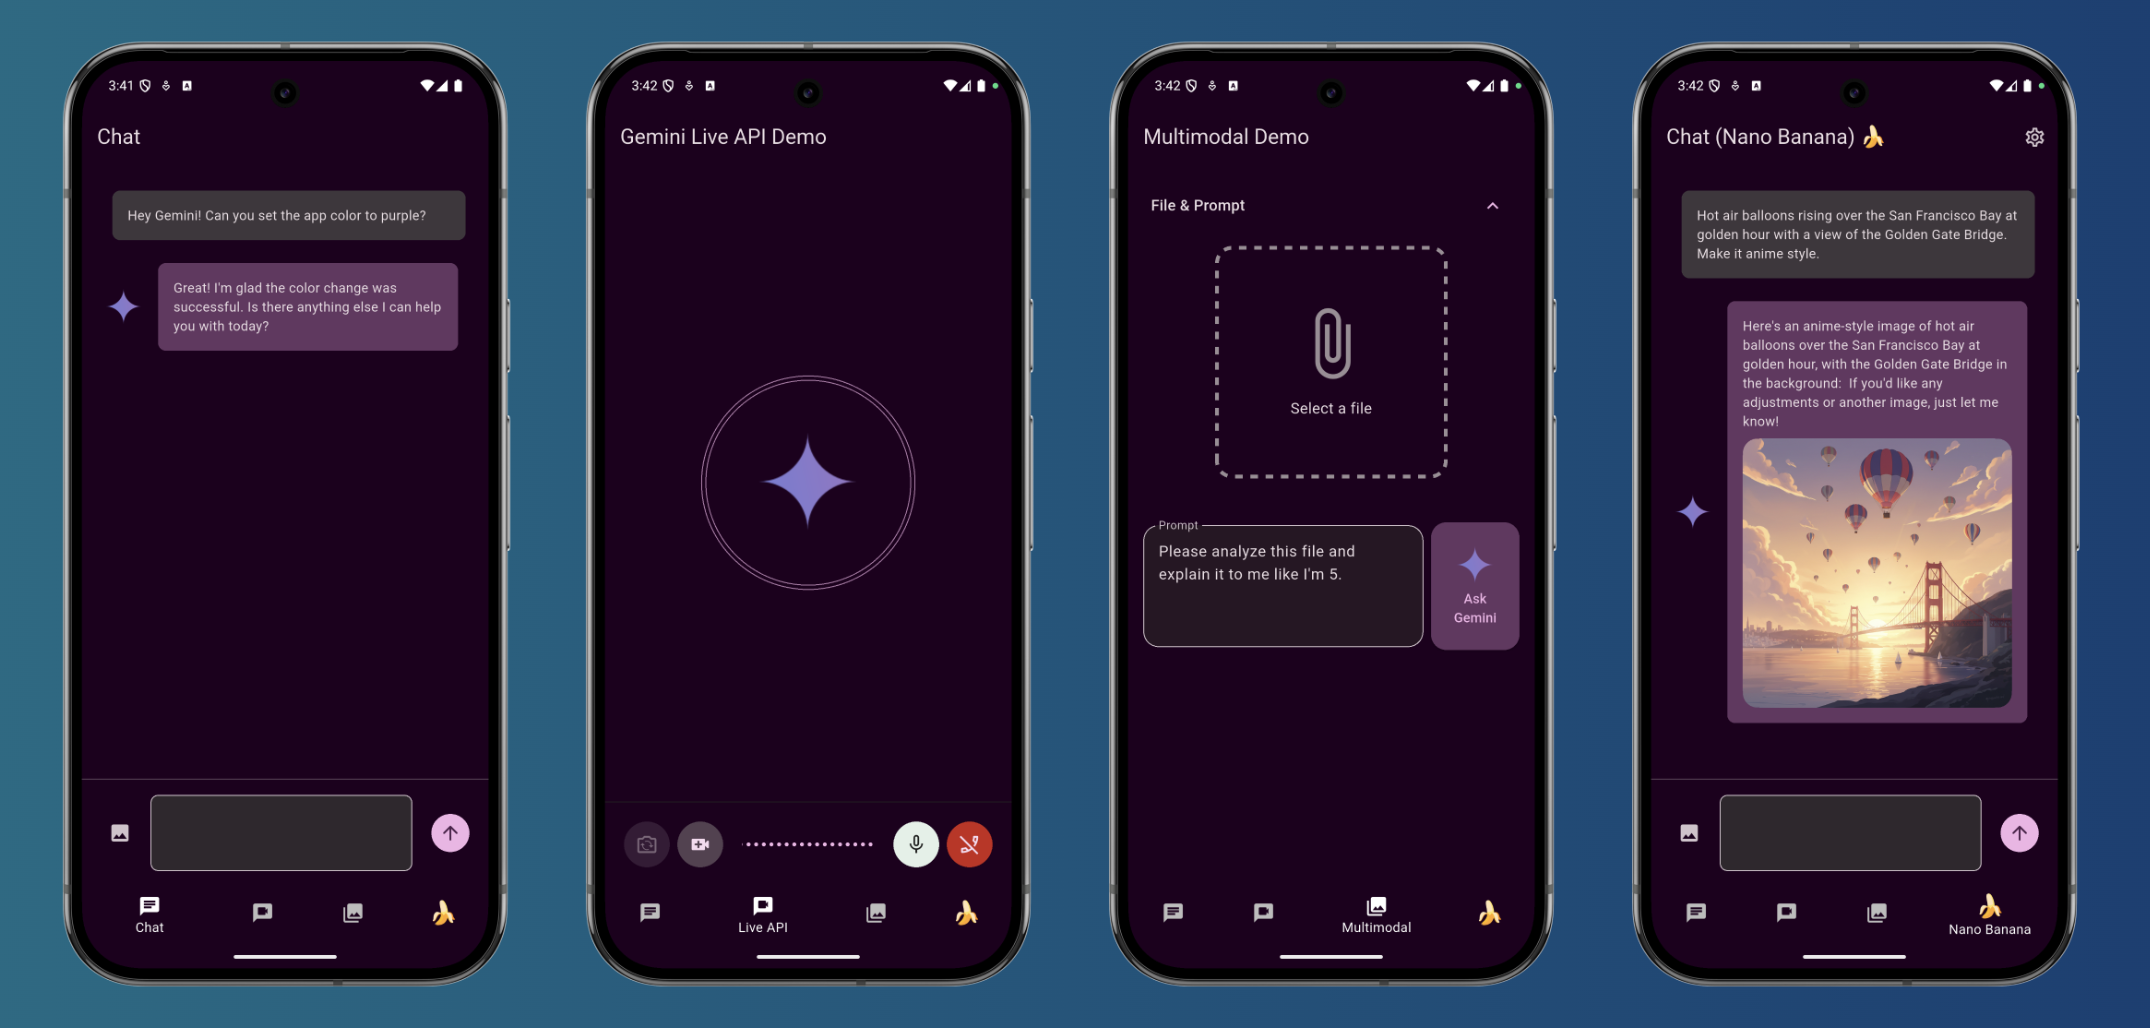
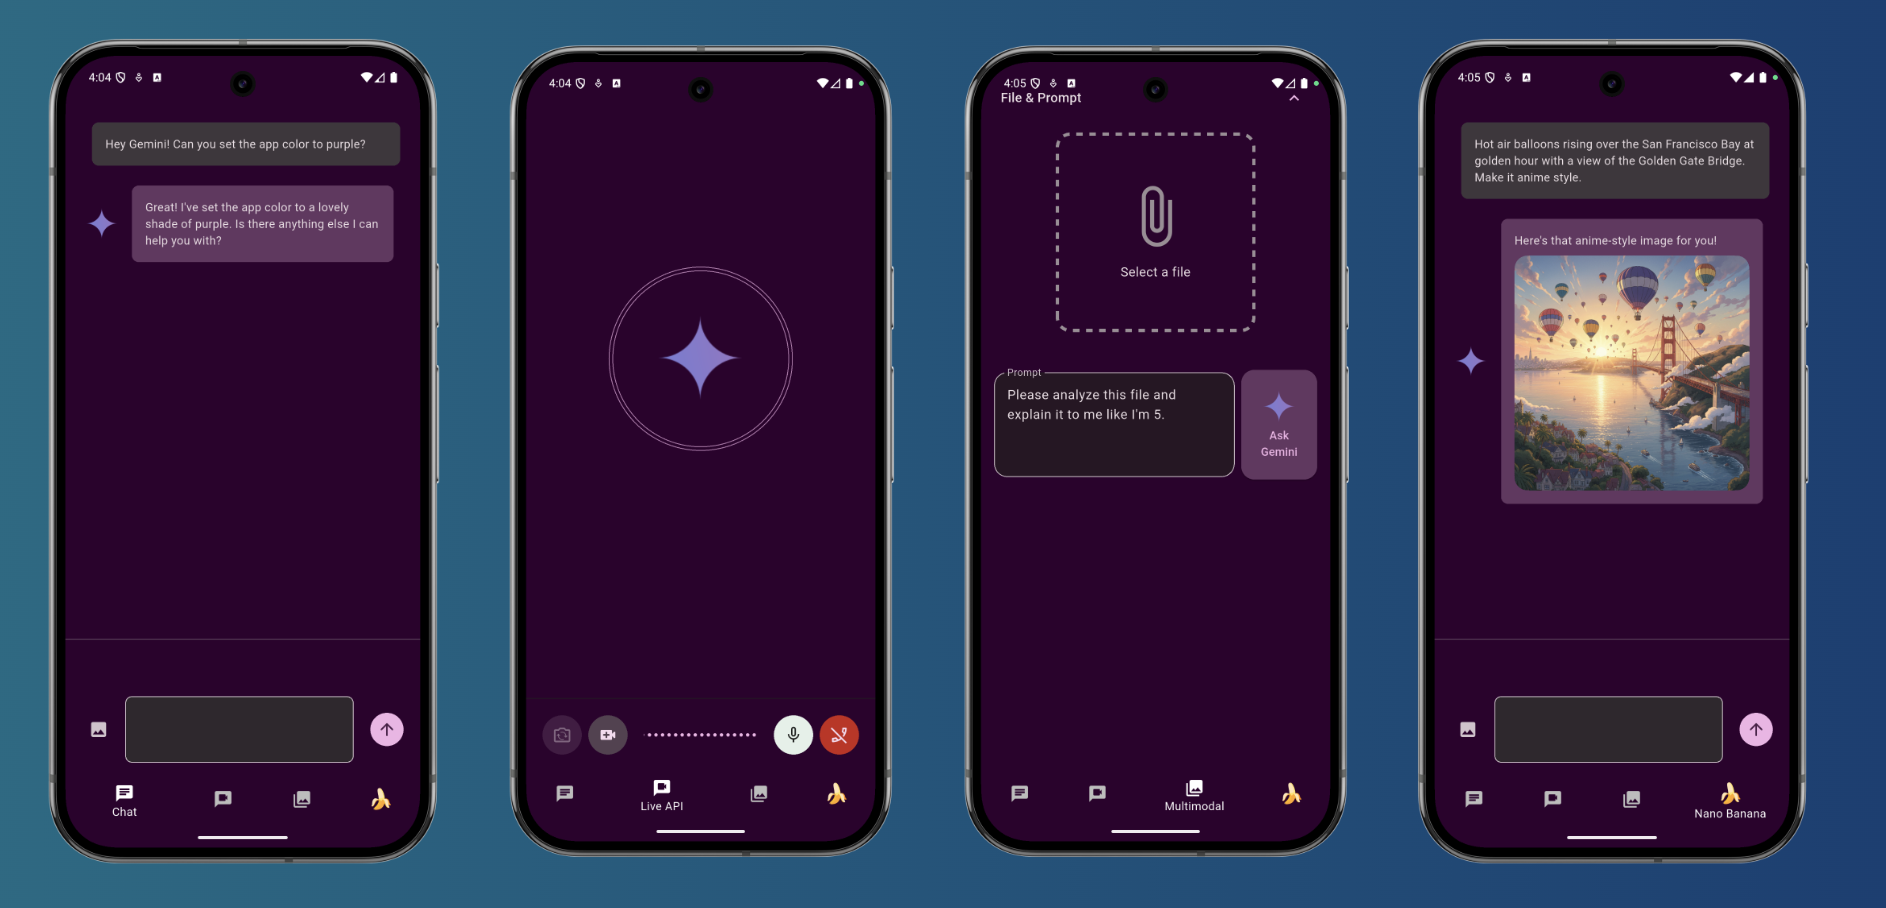
removed the headers from each demo app

diff --git a/firebase_ai_logic_showcase/lib/demos/chat_nano/chat_nano_demo.dart b/firebase_ai_logic_showcase/lib/demos/chat_nano/chat_nano_demo.dart
@@ -182,16 +182,6 @@ class ChatDemoNanoState extends ConsumerState<ChatDemoNano> {
   @override
   Widget build(BuildContext context) {
     return Scaffold(
-      appBar: AppBar(
-        backgroundColor: Colors.transparent,
-        title: const Text('Chat (Nano Banana) 🍌'),
-        actions: [
-          IconButton(
-            onPressed: showModelPicker,
-            icon: const Icon(Icons.settings_outlined),
-          ),
-        ],
-      ),
       body: Column(
         children: [
           Expanded(

diff --git a/firebase_ai_logic_showcase/lib/demos/multimodal/multimodal_demo.dart b/firebase_ai_logic_showcase/lib/demos/multimodal/multimodal_demo.dart
@@ -83,7 +83,6 @@ class _MultimodalDemoState extends State<MultimodalDemo> {
   @override
   Widget build(BuildContext context) {
     return Scaffold(
-      appBar: AppBar(title: Text('Multimodal Demo')),
       body: SingleChildScrollView(
         keyboardDismissBehavior: ScrollViewKeyboardDismissBehavior.onDrag,
         padding: EdgeInsets.only(

diff --git a/firebase_ai_logic_showcase/lib/demos/live_api/live_api_demo.dart b/firebase_ai_logic_showcase/lib/demos/live_api/live_api_demo.dart
@@ -253,7 +253,6 @@ class _LiveAPIDemoState extends ConsumerState<LiveAPIDemo> {
       builder: (context, child) {
         return Scaffold(
           backgroundColor: Theme.of(context).colorScheme.surface,
-          appBar: const LiveApiDemoAppBar(),
           body: Column(
             children: [
               Expanded(

diff --git a/firebase_ai_logic_showcase/lib/demos/chat/chat_demo.dart b/firebase_ai_logic_showcase/lib/demos/chat/chat_demo.dart
@@ -165,10 +165,6 @@ class _ChatDemoState extends ConsumerState<ChatDemo> {
   @override
   Widget build(BuildContext context) {
     return Scaffold(
-      appBar: AppBar(
-        backgroundColor: Colors.transparent,
-        title: const Text('Chat'),
-      ),
       body: Column(
         children: [
           Expanded(
